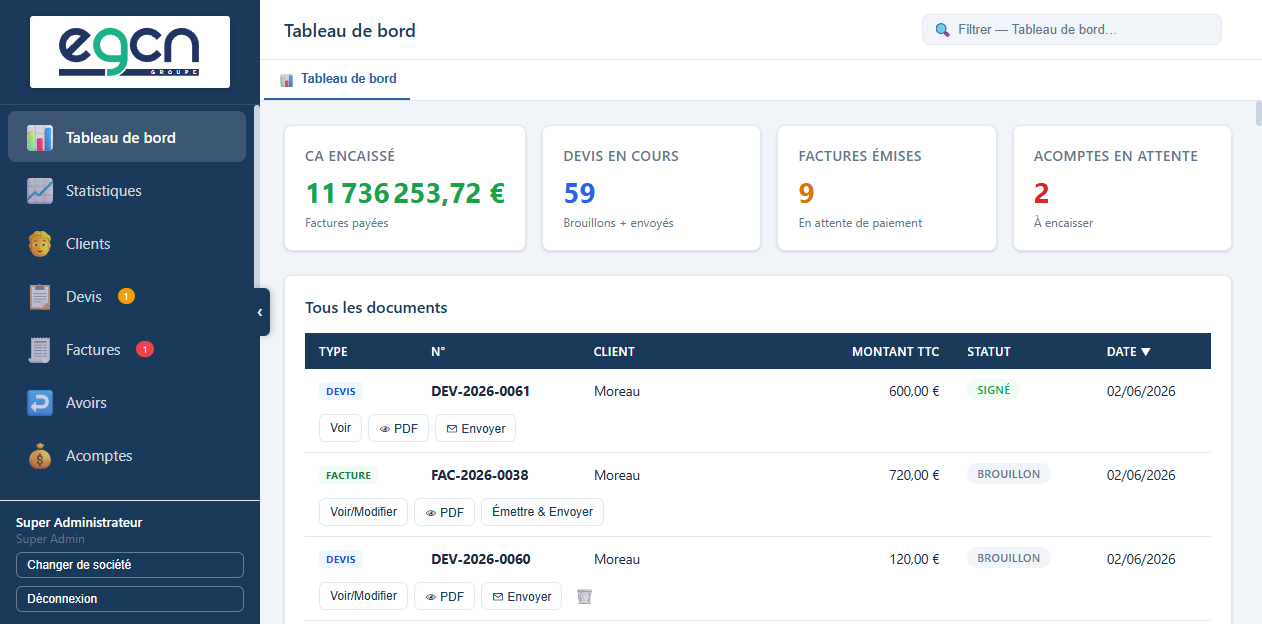
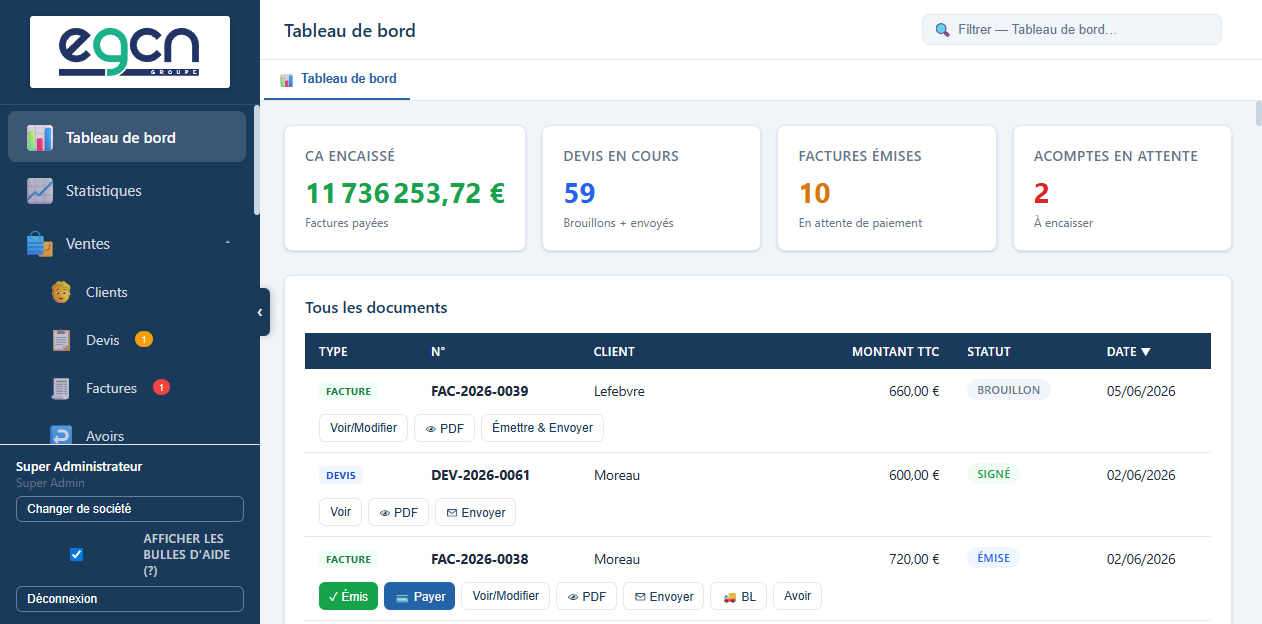
docs: mettre a jour le manuel utilisateur pour la nouvelle barre laterale categorisee
La navigation laterale a ete reorganisee en categories repliables (Ventes,
Achats, Comptabilite). Reecriture de la section Navigation laterale et
recapture du screenshot du tableau de bord pour refleter la nouvelle
structure.

diff --git a/docs/manuel-utilisateur.md b/docs/manuel-utilisateur.md
@@ -112,12 +112,22 @@ La page d'accueil affiche :
 
 ## Navigation latérale
 
-La barre de gauche donne accès à toutes les rubriques. Sur mobile ou petit écran, elle se replie avec le bouton **☰** et peut être rouverte avec le même bouton.
+La barre de gauche donne accès à toutes les rubriques, regroupées par catégories repliables. Sur mobile ou petit écran, elle se replie avec le bouton **☰** et peut être rouverte avec le même bouton.
+
+Trois rubriques restent toujours visibles en haut de la barre :
 
 | Icône | Rubrique |
 |---|---|
 | 📊 | Tableau de bord |
 | 📈 | Statistiques |
+| ⚙️ | Paramètres |
+
+Les autres rubriques sont organisées en **catégories cliquables** (icône **▾**) qui se déplient pour révéler leurs sous-rubriques ; cliquer à nouveau sur l'en-tête de catégorie la replie :
+
+**🛍️ Ventes ▾**
+
+| Icône | Rubrique |
+|---|---|
 | 🧑 | Clients |
 | 📋 | Devis |
 | 🧾 | Factures |
@@ -125,12 +135,26 @@ La barre de gauche donne accès à toutes les rubriques. Sur mobile ou petit éc
 | 💰 | Acomptes |
 | 🚚 | Bons de livraison |
 | 📦 | Articles |
-| 🔍 | Journal d'audit |
+
+**🛒 Achats ▾**
+
+| Icône | Rubrique |
+|---|---|
+| 🏭 | Fournisseurs |
+| 📝 | Commandes |
+| 📥 | Factures d'achats |
+
+**🧮 Comptabilité ▾**
+
+| Icône | Rubrique |
+|---|---|
 | 📑 | Déclaration TVA |
+| ⚖️ | Lettrage |
 | 📅 | Exercices |
 | 🗄️ | Archives |
-| ⚖️ | Lettrage |
-| ⚙️ | Paramètres |
+| 🔍 | Journal d'audit |
+
+> Ce regroupement par catégories simplifie la navigation : seules les rubriques de la catégorie ouverte sont affichées, ce qui réduit l'encombrement de la barre latérale au quotidien.
 
 ## Onglets de travail
 